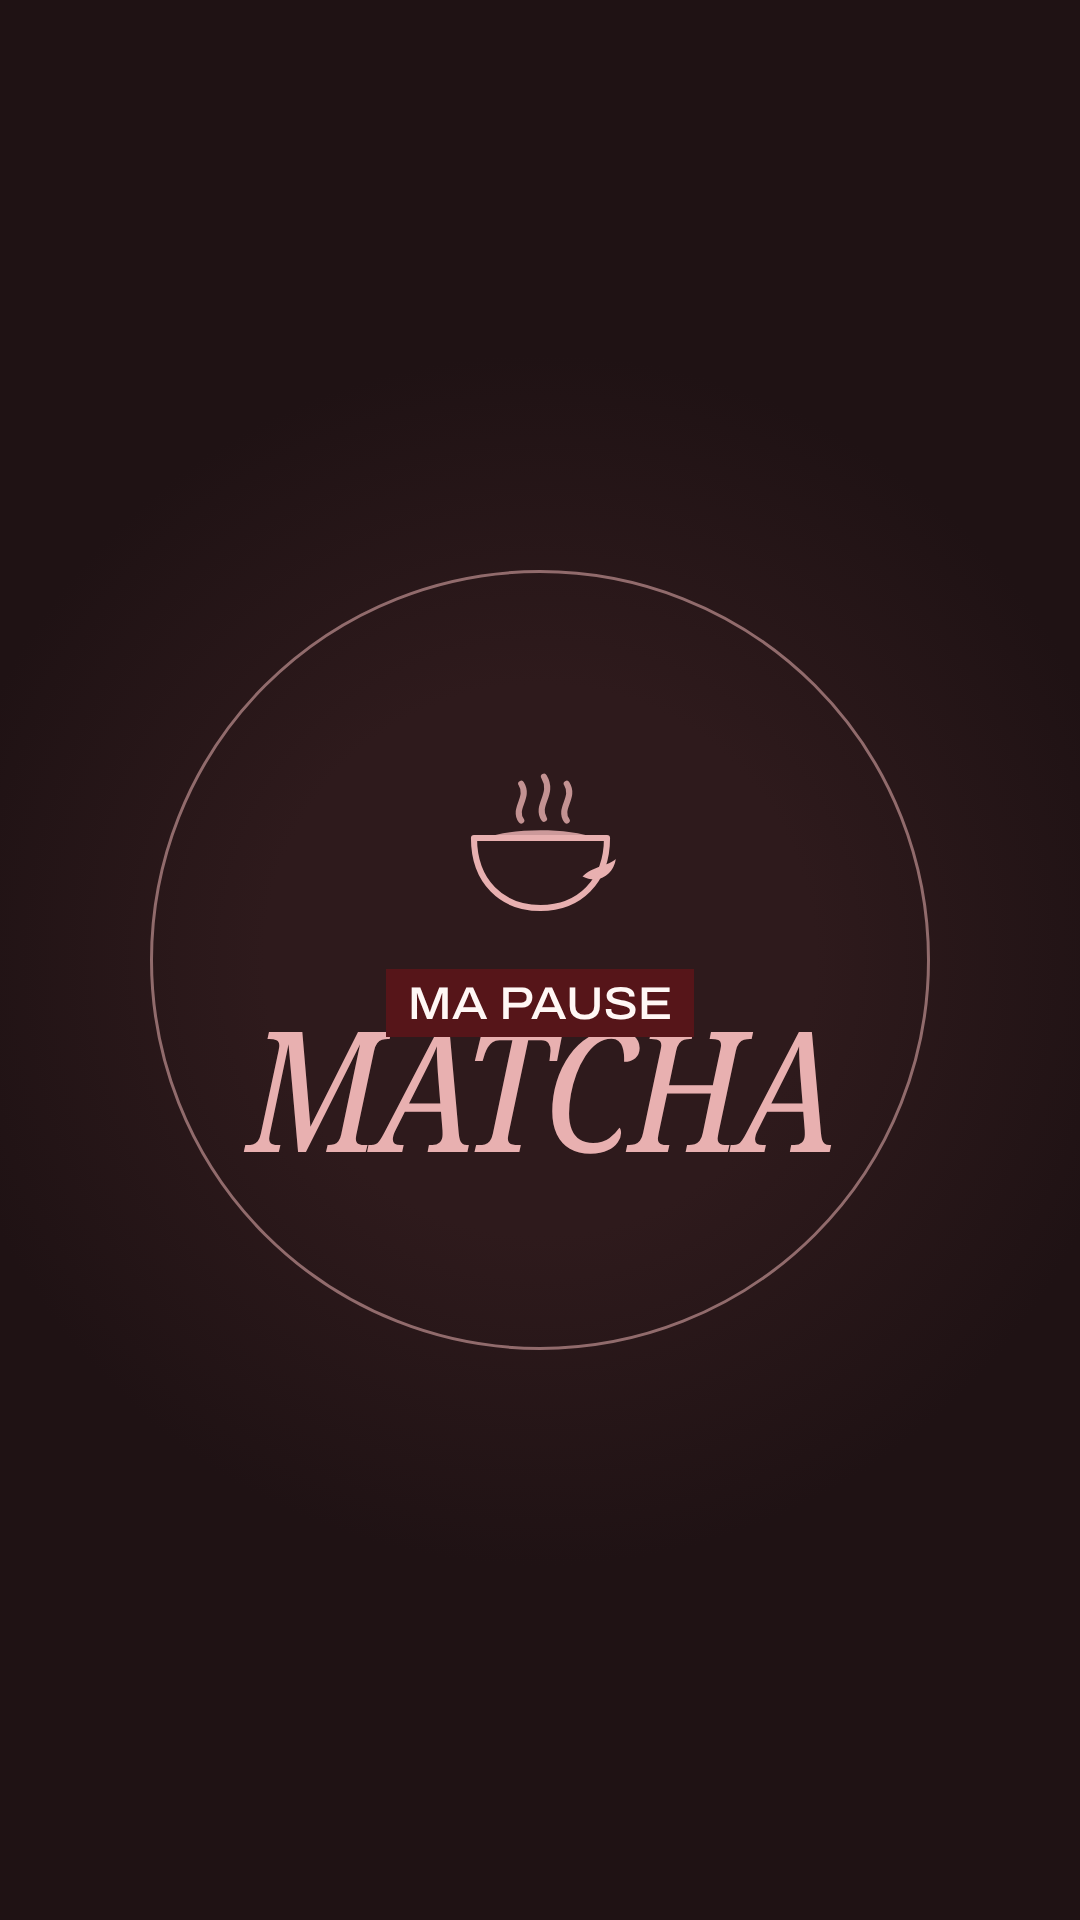
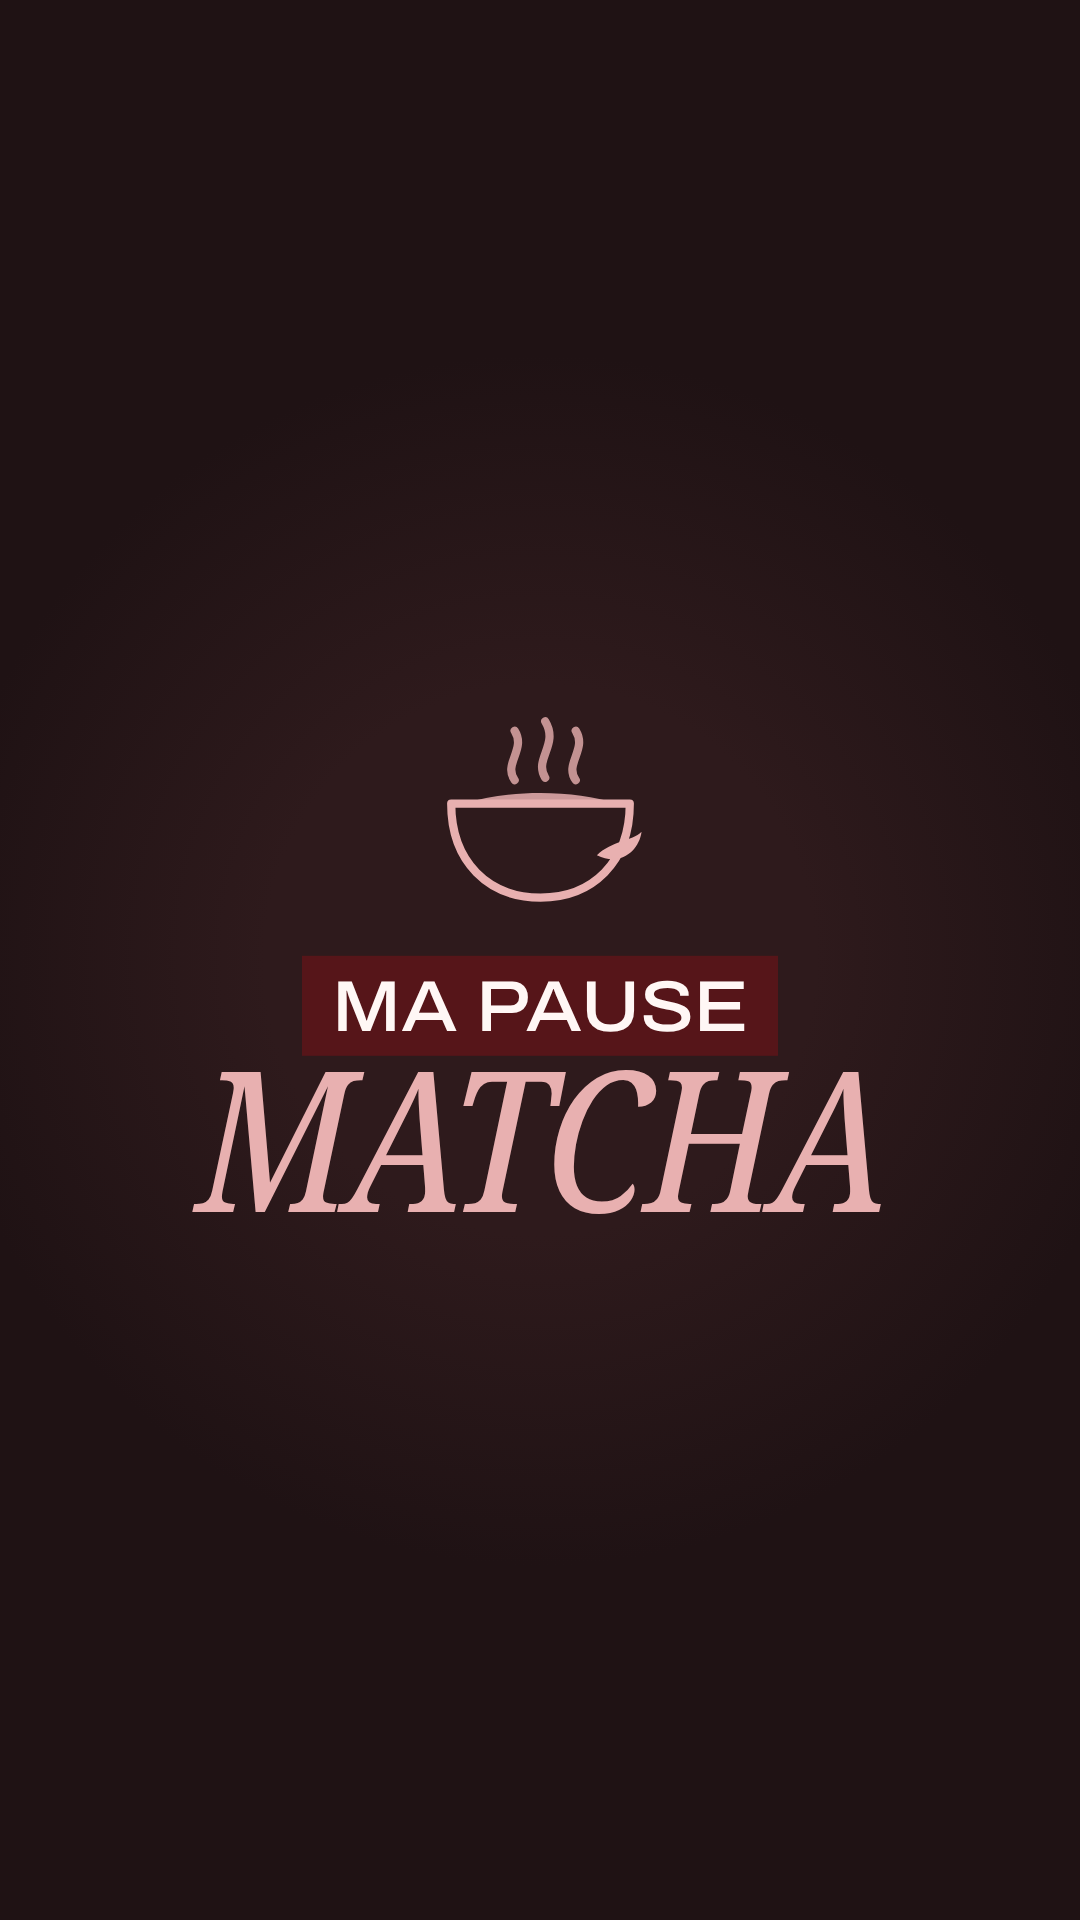
Couvertures des bulles : contenu agrandi, étiquettes plus lisibles, cercle fin retiré
Claude-Session: https://claude.ai/code/session_01M6s8wp3XpgKUKSTkvZAW4S

diff --git a/couvertures-bulles/gen.js b/couvertures-bulles/gen.js
@@ -15,19 +15,19 @@ const column=`<svg viewBox="0 0 200 200"><circle cx="150" cy="44" r="22" fill="$
 const lunettes=`<svg viewBox="0 0 200 200"><path d="M16 92 H184" ${S}/><path d="M24 92 H90 C90 128 76 146 56 146 C34 146 24 126 24 92Z" fill="${R}"/><path d="M110 92 H176 C176 126 166 146 144 146 C124 146 110 128 110 92Z" fill="${R}"/><path d="M90 98 C96 90 104 90 110 98" ${S} stroke-width="5"/><path d="M150 30 l5 14 14 5 -14 5 -5 14 -5 -14 -14 -5 14 -5Z" fill="${R}"/></svg>`;
 // [fichier, mot (Noto Serif), taille, étiquette (CY Grotesk), icône]
 const covers=[
- ['me','Me',300,'Maena',mirror],
- ['collabs','Collabs',175,'Marques & co',collab],
- ['her','Her',300,'Lifestyle',lunettes],
- ['becoming','Becoming',145,'Chaque lundi',cherry],
- ['annecy','Annecy',180,'À croquer',fork],
- ['sport','Sport',300,'Move',dumbbell],
- ['style','Style',300,'Outfits',hanger],
- ['matcha','Matcha',300,'Ma pause',matcha],
- ['danse','Danse',300,'Dance',ballet],
- ['greece','Greece',300,'Voyage',column],
+ ['me','Me',380,'Maena',mirror],
+ ['collabs','Collabs',380,'Brands',collab],
+ ['her','Her',380,'Lifestyle',lunettes],
+ ['becoming','Becoming',380,'Lundi',cherry],
+ ['annecy','Annecy',380,'À croquer',fork],
+ ['sport','Sport',380,'Move',dumbbell],
+ ['style','Style',380,'Outfits',hanger],
+ ['matcha','Matcha',380,'Ma pause',matcha],
+ ['danse','Danse',380,'Dance',ballet],
+ ['greece','Greece',380,'Voyage',column],
 ];
 (async()=>{const b=await chromium.launch();const p=await b.newPage({viewport:{width:1080,height:1920}});
-const t=fs.readFileSync(__dirname+'/template.html','utf8');
+const t0=fs.readFileSync(__dirname+'/template.html','utf8');const t=t0;
 for(const [f,w,s,tag,ic] of covers){await p.setContent(t.replace('__ICON__',ic).replace('__WORD__',w).replace('__SIZE__',s).replace('__TAG__',tag),{waitUntil:'networkidle'});
-await p.evaluate(()=>document.fonts.ready);await p.evaluate(()=>{const w=document.querySelector('.w');let f=parseFloat(w.style.fontSize);while(w.scrollWidth>600&&f>80){f-=4;w.style.fontSize=f+'px';}});await p.screenshot({path:`${__dirname}/${f}.png`});}
+await p.evaluate(()=>document.fonts.ready);await p.evaluate(()=>{const w=document.querySelector('.w');let f=parseFloat(w.style.fontSize);const g=document.querySelector('.tag');let tf=72;while(g.offsetWidth>600&&tf>40){tf-=2;g.style.fontSize=tf+'px';}while(w.scrollWidth>700&&f>80){f-=4;w.style.fontSize=f+'px';}g.style.marginBottom=(-0.09*f)+'px';});await p.screenshot({path:`${__dirname}/${f}.png`});}
 await b.close();})();

diff --git a/couvertures-bulles/template.html b/couvertures-bulles/template.html
@@ -6,10 +6,10 @@
 html,body{width:1080px;height:1920px;background:var(--fond)}
 .c{width:1080px;height:1920px;position:relative;background:radial-gradient(circle at 50% 50%,#2E1A1C 0 25%,var(--fond) 55%)}
 .ring{position:absolute;left:50%;top:50%;width:780px;height:780px;transform:translate(-50%,-50%);border-radius:50%;border:3px solid var(--rose);opacity:.55}
-.in{position:absolute;left:50%;top:50%;transform:translate(-50%,-50%);text-align:center;width:760px;display:flex;flex-direction:column;align-items:center}
-.ic{height:180px;display:flex;align-items:flex-end;justify-content:center;margin-bottom:40px}
-.ic svg{height:175px;width:auto}
-.tag{font-family:'CY Grotesk','Archivo',sans-serif;font-stretch:112%;font-weight:500;font-size:46px;color:var(--blanc);background:var(--cerise);padding:10px 22px 8px;text-transform:uppercase;letter-spacing:-.5px;position:relative;z-index:2;margin-bottom:-34px}
+.in{position:absolute;left:50%;top:50%;transform:translate(-50%,-50%);text-align:center;width:900px;display:flex;flex-direction:column;align-items:center}
+.ic{height:240px;display:flex;align-items:flex-end;justify-content:center;margin-bottom:30px}
+.ic svg{height:235px;width:auto}
+.tag{font-family:'CY Grotesk','Archivo',sans-serif;font-stretch:112%;font-weight:500;font-size:72px;color:var(--blanc);background:var(--cerise);padding:12px 30px 10px;text-transform:uppercase;letter-spacing:-.5px;position:relative;z-index:2;margin-bottom:-52px}
 .w{font-family:'Noto Serif',serif;font-style:italic;font-weight:400;font-variation-settings:'wdth' 70;color:var(--rose);line-height:1;letter-spacing:-4px;text-transform:uppercase;white-space:nowrap}
-</style></head><body><div class="c"><div class="ring"></div>
+</style></head><body><div class="c">
 <div class="in"><div class="ic">__ICON__</div><div class="tag">__TAG__</div><div class="w" style="font-size:__SIZE__px">__WORD__</div></div></div></body></html>
